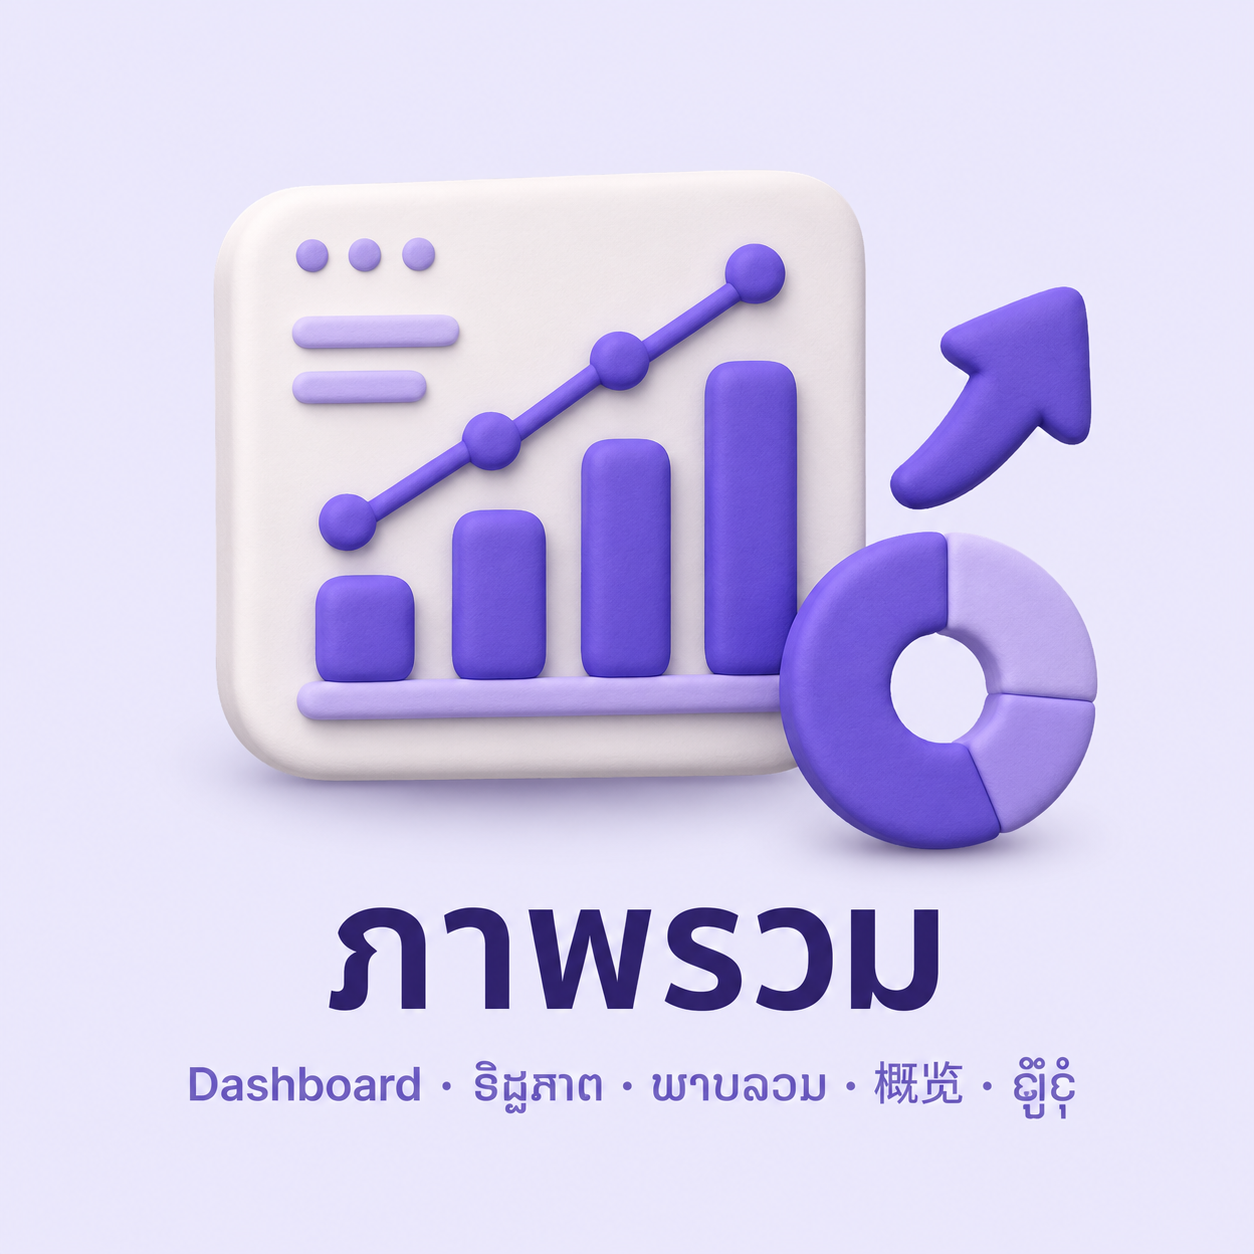
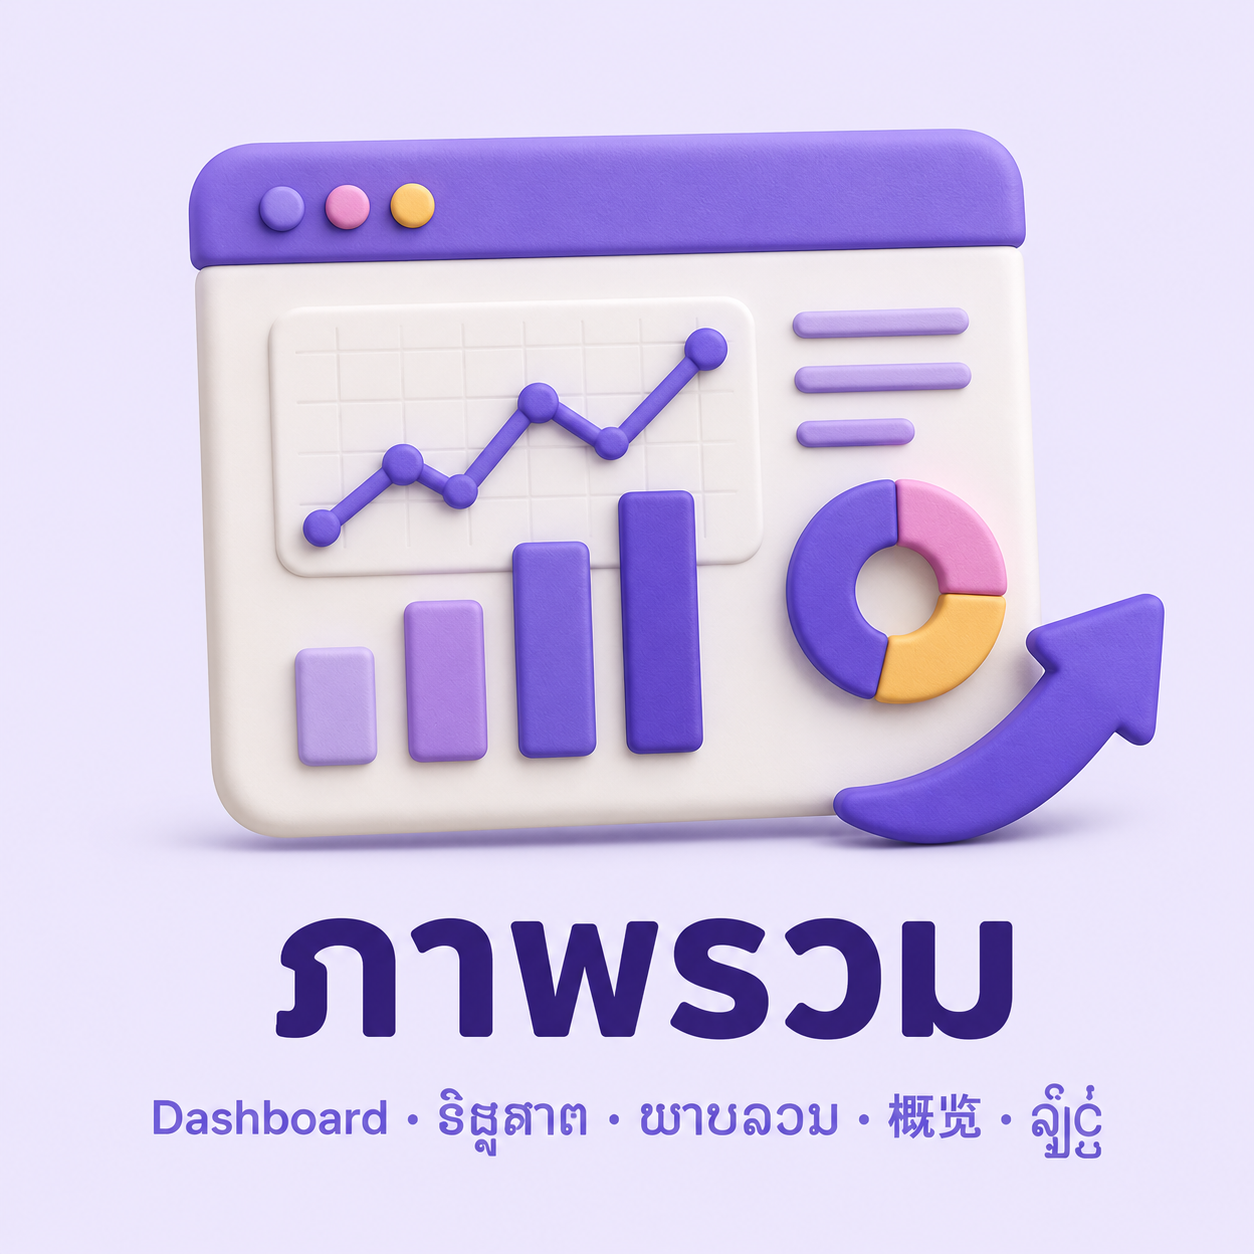
chore(assets): final rich-menu artwork, SSO cap 17500 seed, admin LINE unlink script
- replace placeholder admin rich menu with final designs (assets/rich-menu/final)
- seed: SSO salary cap 15000→17500 (amount cap 750→875)
- scripts/unlink-admin-line.mjs: one-off ops tool to unlink LINE from admin-role users (dry-run by default)

diff --git a/prisma/seed.ts b/prisma/seed.ts
@@ -126,8 +126,8 @@ const SEED = {
   // /admin/settings/payroll-config (Phase 3).
   payrollConfig: {
     ssoRate: '0.05',
-    ssoSalaryCap: '15000',
-    ssoAmountCap: '750',
+    ssoSalaryCap: '17500',
+    ssoAmountCap: '875',
     otMultiplier: '1.5',
     cutoffDay: 25,
     absentDeductionPerDay: '500',
